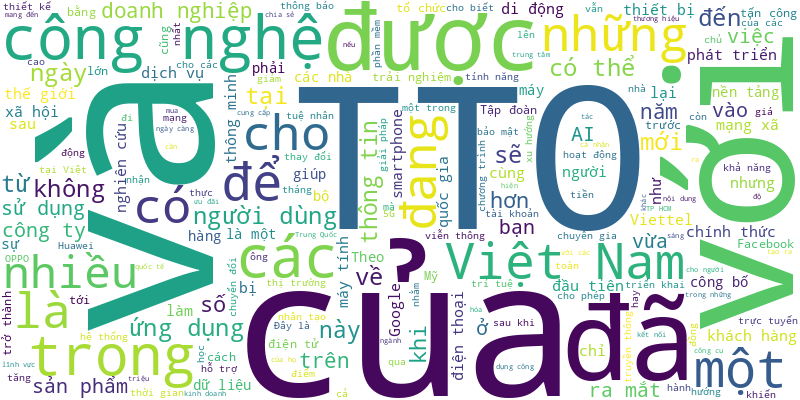
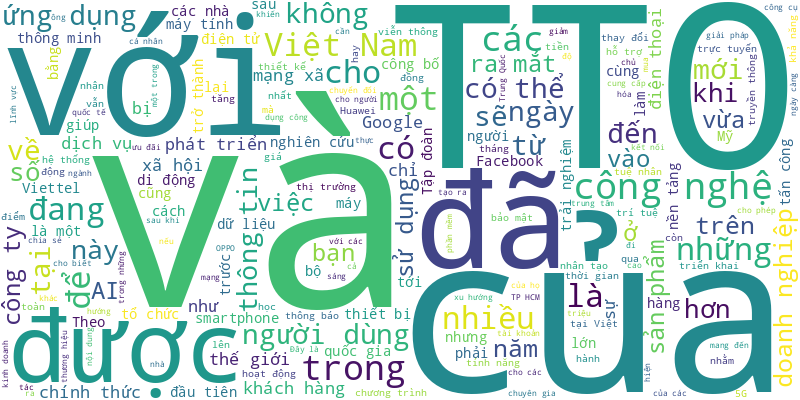
🍀 = 10%

diff --git a/README.md b/README.md
@@ -1,6 +1,10 @@
 # Tuoi Tre RSS 
 
 ## Giáo dục 
+- Nhiều thí sinh hiện vẫn chưa xem được giấy báo dự thi đánh giá năng lực Đại học Quốc gia TP.HCM đợt 1 năm 2025.
+- Mùa hè này sẽ khác khi việc dạy thêm, học thêm không còn là một "học kỳ 3" với nhiều học sinh và thầy cô giáo.
+- Học sinh Hà Nội nộp hồ sơ đăng ký dự tuyển vào lớp 10 năm học 2025-2026 vào ngày 18-4. Kỳ thi sẽ diễn ra từ ngày 7 đến 9-6.
+- Giáo dục trẻ sử dụng tiền rất quan trọng, sẽ giúp trẻ biết tiêu xài hợp lý, rèn luyện tư duy, trách nhiệm và thái độ đúng đắn đối với tài chính trong tương lai.
 - Nguyễn Xuân Hiếu (học sinh lớp 12A3 Trường THPT Hạ Hòa, tỉnh Phú Thọ) vừa được Công an xã Ấm Hạ (Hạ Hòa) nhận làm con nuôi đầu tháng 3-2025 khi mẹ của em qua đời.
 - Ở tuổi 88, nhà giáo Bùi Long Biên đã cùng vợ, con, học trò cũ đến Đại học Bách khoa Hà Nội trao tặng 1 tỉ đồng cho sinh viên nghèo vượt khó trong học tập.
 - Thông tư 29 đã phần nào dẹp bỏ được tình trạng dạy thêm tràn lan, song vẫn còn lo ngại việc dạy thêm đang 'lách luật'.
@@ -1000,12 +1004,35 @@ Trường đại học Văn Lang được QS xếp hạng top 51-100 thế giớ
 - Hội đồng Giáo sư nhà nước vừa chính thức công nhận đạt chuẩn chức danh giáo sư, phó giáo sư năm 2024 cho 614 nhà giáo.
 - Hội đồng trường Trường đại học Khoa học tự nhiên vừa tổ chức phiên họp đột xuất xem xét miễn nhiệm tư cách thành viên hội đồng trường đối với ông Nguyễn Anh Thi.
 - Dự thảo thông tư mới về quy chế thi và cấp chứng chỉ ngoại ngữ theo khung năng lực ngoại ngữ 6 bậc dùng cho Việt Nam đang được trưng cầu ý kiến.
-- Sáng thứ bảy hằng tuần, các thành viên trong câu lạc bộ những người yêu thích violin lại đến Nhà văn hóa Thanh niên TP.HCM (quận 1) để sinh hoạt và học đàn miễn phí.
-- Phòng Giáo dục và Đào tạo quận Gò Vấp, TP.HCM vừa hoàn thành giai đoạn 1 trong quá trình xây dựng Trung tâm điều hành giáo dục thông minh.
-- Những ngày qua hình ảnh các thầy cô giáo vùng cao ở Nam Trà My (Quảng Nam) đến lớp trong bê bết bùn đất gây xúc động với nhiều người. Mỗi thầy cô ở đây kiêm dạy cả mầm non lẫn tiểu học.
-- Sáng 23-11, chương trình cộng đồng "Phở yêu thương - Nước sạch học đường" đã đến với học sinh Trường tiểu học Cam Lộc 1 (TP Cam Ranh, tỉnh Khánh Hòa).
 ![Edu](Edu.png)
 ## Thời Sự 
+- Các chuyên gia, đại biểu Quốc hội cho rằng khi sáp nhập tỉnh thành cần tránh tư tưởng 'tỉnh anh, tỉnh tôi, quyền anh, quyền tôi'.
+- Bộ Nội vụ đề nghị các tỉnh, thành tạm dừng trình đề án sáp nhập, thành lập đơn vị cấp huyện, xã theo  nghị quyết năm 2016, 2022, 2023.
+- Một số tin tức đáng chú ý: VNDirect sẽ rút hết vốn khỏi doanh nghiệp sở hữu King BBQ, ThaiExpress; Tổng công ty bảo hiểm BIDV bất ngờ hoãn tổ chức đại hội đồng cổ đông; Trung Quốc mua nhiều, giá khoai lang tăng mạnh...
+- Hôm nay 24-3, thời tiết các tỉnh Bắc Bộ ngày nắng, chiều tối mưa rào, Nam Bộ ngày nắng gay gắt.
+- "Phương án UBND quận Hoàn Kiếm đề xuất dịch chuyển, đánh chuyển 25 cây (trong đó sẽ dịch chuyển trong nội bộ vườn hoa 16 cây, thay thế 9 cây sâu bệnh)" - quận Hoàn Kiếm nêu rõ phương án thay thế cây xanh khi cải tạo, chỉnh trang vườn hoa Lý Thái Tổ.
+- Thương hiệu thời trang nữ Hnoss ra đời từ năm 2008, từng có 36 cửa hàng trên toàn quốc, được cho là đóng cửa hàng loạt trong thời gian tới.
+- Quán phở trên đường Nguyễn Cơ Thạch, phường An Lợi Đông (TP Thủ Đức, TP.HCM) nghi bị rò rỉ khí gas, sau đó gặp nguồn nhiệt phát nổ. Vụ việc khiến cửa kính, bảng hiệu bể nát, hư hỏng.
+- Thời gian điều chỉnh phục vụ công tác chuẩn bị đại lễ 30-4 từ nay đến hết ngày 12-5, người dân cần lưu ý khi qua khu vực quận 1 để đi lại thuận tiện.
+- Nguyên nhân khiến lãi sau thuế công ty mẹ VIMC vọt lên chủ yếu nhờ khoản "lợi nhuận khác". Tổng công ty này ghi nhận khoản thu 104 tỉ đồng từ thanh lý, nhượng bán tài sản cố định, hơn 377 tỉ đồng từ lãi vay được xóa...
+- Sau 6 ngày xảy ra vụ tàu chìm, lực lượng tìm kiếm cứu nạn vẫn chưa tìm thấy ba ngư dân Nghệ An mất tích trên biển.
+- Vụ tai nạn xảy ra tại TP Pleiku, Gia Lai khi chiếc xe con lao thẳng vào trụ đèn tín hiệu giao thông, 3 người bị thương.
+- Cảnh sát giao thông tuần tra phát hiện người phụ nữ "cầm lái" vali điện chạy trên đường Lê Duẩn, quận 1 nên mời về công an phường kiểm tra, lập biên bản.
+- Metro nối dài từ Suối Tiên đi Thủ Dầu Một là dấu gạch nối rất quan trọng trong tổ chức giao thông công cộng thông suốt nếu hai địa phương sáp nhập.
+- Tổng thống Brazil Luiz Inácio Lula da Silva, người có tình cảm sâu sắc với Việt Nam, sẽ thăm cấp nhà nước Việt Nam từ ngày 27 đến 29-3.
+- ‘Ná thủ’ bắn cá trên kênh biết sai nhưng nói do kiếm sống; tiếc thương nữ phiên dịch qua đời trong vụ tai nạn là những sự việc được bạn đọc quan tâm tuần qua.
+- Bộ Quốc phòng đề xuất dừng các hoạt động sản xuất, kinh doanh tại cảng quốc tế Cam Ranh (Khánh Hòa) khi có tình huống về quốc phòng.
+- 11 ngư dân Quảng Nam (1 người đã tử vong) được tàu cá QNa 91769 TS đưa vào cảng Đề Gi (huyện Phù Cát, Bình Định) bàn giao cơ quan chức năng và gia đình.
+- Chủ tịch nước Lương Cường cùng nhiều lãnh đạo, nguyên lãnh đạo Đảng, Nhà nước dự lễ kỷ niệm 50 năm giải phóng tỉnh Bình Phước.
+- Người đàn ông 39 tuổi ở tỉnh Trà Vinh tử vong do đa chấn thương, nghi nhảy từ tầng 7 của tòa nhà Bệnh viện Đa khoa Trà Vinh xuống đất.
+- Vụ va chạm giữa chiếc xe con "tập lái" với đoàn xe lửa SE12 từ TP.HCM đi Hà Nội xảy ra sáng 23-3 trên địa phận tỉnh Ninh Bình.
+- Tỉnh Quảng Nam tổ chức thông xe kỹ thuật hai cây cầu Sông Thu và An Bình vượt sông Thu Bồn và sông Vu Gia, tổng chiều dài hai cây cầu hơn 1,7km.
+- Sáng 23-3, Tỉnh ủy Tây Ninh tổ chức hội nghị công bố quyết định của Bộ Chính trị về việc chuẩn y ông Nguyễn Mạnh Hùng giữ chức bí thư Tỉnh ủy Tây Ninh.
+- Tuần này, từ 23 đến 29-3, nắng trải dài tại ba miền cả nước, nhiều nơi thời tiết nắng nóng.
+- Trong ba phương án dự kiến tại Đề án sắp xếp các đơn vị hành chính cấp xã trên địa bàn TP Đà Lạt giai đoạn 2023 – 2030 đều có tên phường Đà Lạt.
+- Sau nhiều giờ tìm kiếm, lực lượng chức năng tỉnh Ninh Thuận đã tìm thấy thi thể 2 thiếu nữ, nghi nhảy cầu tự tử khuya 22-3.
+- Chuyên môn và kỹ năng của nguồn cán bộ sau sắp xếp bộ máy được nhiều doanh nghiệp đánh giá cao và cho rằng là nguồn nhân sự quý.
+- Ngọn lửa bùng phát dữ dội từ một tàu cá và nhanh chóng lan sang các tàu khác đang neo đậu gần sát nhau.
 - Bộ Quốc phòng đề xuất cấm người điều khiển phương tiện bay (drone) khi trong máu, hơi thở có nồng độ cồn, ma túy, chất gây ngủ, các chất bị cấm.
 - Sau khi tinh gọn bộ máy, không ít cán bộ, công chức, viên chức vẫn có nhu cầu tiếp tục làm việc để vừa lo cho gia đình vừa đóng góp cho xã hội.
 - Ngoài những diễn biến của vụ việc về mặt hình sự, ở đây cũng đặt ra vấn đề xung quanh chuyện sở hữu và sử dụng ngoại tệ như thế nào cho đúng pháp luật.
@@ -1979,33 +2006,6 @@ Trường đại học Văn Lang được QS xếp hạng top 51-100 thế giớ
 - Nhiều lãnh đạo các sở, ngành tại UBND tỉnh Gia Lai được tái bổ nhiệm sau khi hợp nhất, một số lãnh đạo khác được trao quyết định nghỉ hưu trước tuổi.
 - Sáng 3-3, Sở Văn hóa và Thể thao TP.HCM tổ chức hội nghị công bố đề án sắp xếp tổ chức bộ máy và triển khai nhiệm vụ trọng tâm năm 2025.
 - Nghi người đàn ông đã chết trong phòng trọ, lực lượng chức năng ở Bình Dương phá cửa vào trong và phát hiện nạn nhân vẫn còn sống nhưng nghi bị đột quỵ.
-- Chính phủ vừa ban hành quy định chức năng nhiệm vụ, quyền hạn, cơ cấu tổ chức của Bộ Khoa học và Công nghệ.
-- Ông Trương Quốc Huy vừa được Ban Chấp hành Đảng bộ tỉnh Hà Nam bầu giữ chức bí thư Tỉnh ủy Hà Nam, nhiệm kỳ 2020 - 2025.
-- Nhiều đoạn mặt đường quốc lộ 19 đoạn tránh thị xã An Khê phải bóc lên làm lại, còn đoạn chân đèo An Khê hư hỏng, xuất hiện nhiều "ổ voi, ổ gà".
-- Hơn 4 tháng kể từ ngày đóng thầu, dự án cầu Giải Phóng 9, TP Rạch Giá có tổng mức đầu tư trên 870 tỉ đồng vẫn chưa có nhà thầu.
-- Lực lượng chức năng đã đến kiểm tra tiệm bánh mì Huỳnh Hoa (quận 1, TP.HCM) có nhiều khách xếp hàng dài, xe cộ đậu tràn vỉa hè xuống đường.
-- Dự án cầu Nhơn Trạch 2 cần sớm triển khai để bảo đảm hoàn thành, đưa vào khai thác cùng với đường vành đai 3 TP.HCM.
-- Trải qua 70 năm xây dựng, chiến đấu và phát triển, lớp lớp thế hệ của Không quân nhân dân Việt Nam đã vượt qua mọi khó khăn, cống hiến tài năng, trí tuệ và xương máu vì sự nghiệp canh giữ bầu trời Tổ quốc.
-- Quyền Bí thư Tỉnh ủy Lâm Đồng Nguyễn Thái Học nhấn mạnh như vậy tại cuộc làm việc với Đoàn kiểm tra số 1923 của Bộ Chính trị.
-- Trước đó, liên quan đến sai phạm kỳ thi tuyển sinh vào lớp 10, giám đốc Sở Giáo dục và Đào tạo Thái Bình bị cách chức, đến nay đã 6 tháng.
-- Hai phụ nữ là chủ và nhân viên một cửa hàng bánh mì ở Đồng Nai nhặt được bịch ni lông chứa hơn 100 triệu đồng. Họ trình báo công an tìm trả cho người đánh rơi.
-- Anh Nguyễn Lương Ngọc - chủ nhiệm Câu lạc bộ Sài Gòn Xanh (thuộc Hội Liên hiệp thanh niên Việt Nam TP.HCM) - cho biết dự kiến cho robot vớt rác, thay thế việc các tình nguyện viên phải lội xuống kênh vớt rác.
-- Hà Tĩnh đã công bố quyết định bổ nhiệm 5 giám đốc sở mới sau sắp xếp tại hội nghị tổ chức sáng nay.
-- Tổ công tác thường trực này gồm 97 cán bộ, chiến sĩ công an, góp phần đảm bảo an ninh chính trị, trật tự an toàn xã hội, phát triển kinh tế, đối ngoại và đặc biệt du lịch ở TP Phú Quốc (Kiên Giang).
-- Không khí lạnh tăng cường ở phía Bắc dự báo sẽ tác động tới nước ta trong vài ngày tới. Hình thái này có làm giảm bớt nắng nóng ở miền Nam và TP.HCM?
-- Trụ sở Sở Nội vụ TP.HCM tại số 86B Lê Thánh Tôn, phường Bến Nghé, quận 1 và số 159 Pasteur, phường Võ Thị Sáu, quận 3.
-- Từ khi tiếp nhận nhiệm vụ bảo đảm an ninh hàng không, Bộ Công an đã triển khai lực lượng thực hiện công tác an ninh hàng không chặt chẽ, hiệu quả, đảm bảo an toàn các chuyến bay.
-- Sau thời gian tạm dừng để chuyển giao, hiện chỉ cần đến bệnh viện người dân Đà Nẵng cũng có thể được đổi bằng lái xe.
-- Ngày 3-3, Tập đoàn Điện lực Việt Nam (EVN), Ban Quản lý dự án điện 1 tổ chức lễ triển khai thi công công trình đường dây 500KV Lào Cai - Vĩnh Yên.
-- Đồng Tháp trao quyết định quyền chủ tịch UBND tỉnh cho ông Trần Trí Quang, bổ nhiệm lãnh đạo 5 sở mới thành lập.
-- Việc sáp nhập các tỉnh là cơ hội để tổ chức lại không gian phát triển quốc gia ở cấp địa phương, đáp ứng yêu cầu tăng trưởng hai con số và làm nền tảng để đất nước vươn mình.
-- Chỉ trong vòng 6 tháng, Trường đại học Thủ Dầu Một có hai lần thay đổi chủ tịch hội đồng trường.
-- Bà Nguyễn Thúy Anh và các ông Nguyễn Hoàng Anh, Nguyễn Thế Mạnh được điều động, bổ nhiệm làm phó trưởng Ban Chính sách, chiến lược Trung ương.
-- Liên quan đến vụ phó giám đốc "siêu ban" ở Đắk Lắk bị kỷ luật cảnh cáo, nguồn tin cho biết do ông này nhiều lần nhận tiền của nhà thầu, vi phạm về phòng chống tham nhũng, tiêu cực, lãng phí…
-- Quy định về hình thức, nội dung và quy trình sát hạch lái xe được Bộ Công an quy định tại thông tư 12/2025. Thông tư này áp dụng từ 1-3, cũng là thời điểm ngành công an chính thức tiếp nhận nhiệm vụ này.
-- Qua rà soát của ngành chức năng, hiện toàn tỉnh Hà Tĩnh có khoảng 80 lối đi tự mở cắt qua đường sắt tiềm ẩn mất an toàn.
-- Sau khi hợp nhất và thành lập các sở ngành, UBND tỉnh Nghệ An bổ nhiệm 7 giám đốc sở mới.
-- Luật Tổ chức chính quyền địa phương mới đã bổ sung nhiều nhiệm vụ, quyền hạn cho chủ tịch UBND cấp tỉnh.
 ![New](News.png)
 ## Nhịp sống số 
 - Zenbook S16 là mẫu laptop AI sở hữu thiết kế mỏng nhẹ, màn hình Lumina OLED kích thước lớn và thời lượng pin lâu.
